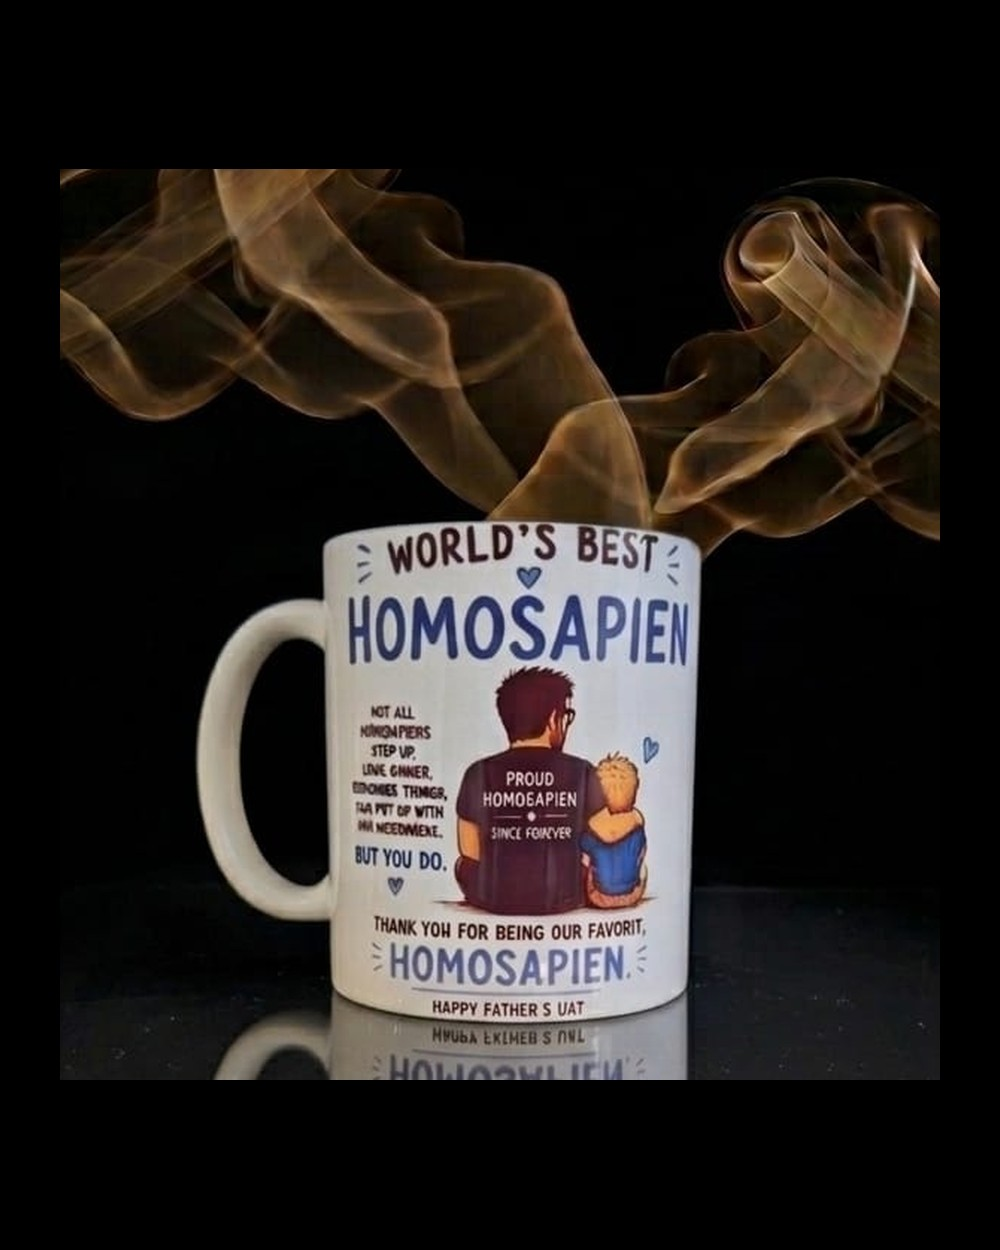
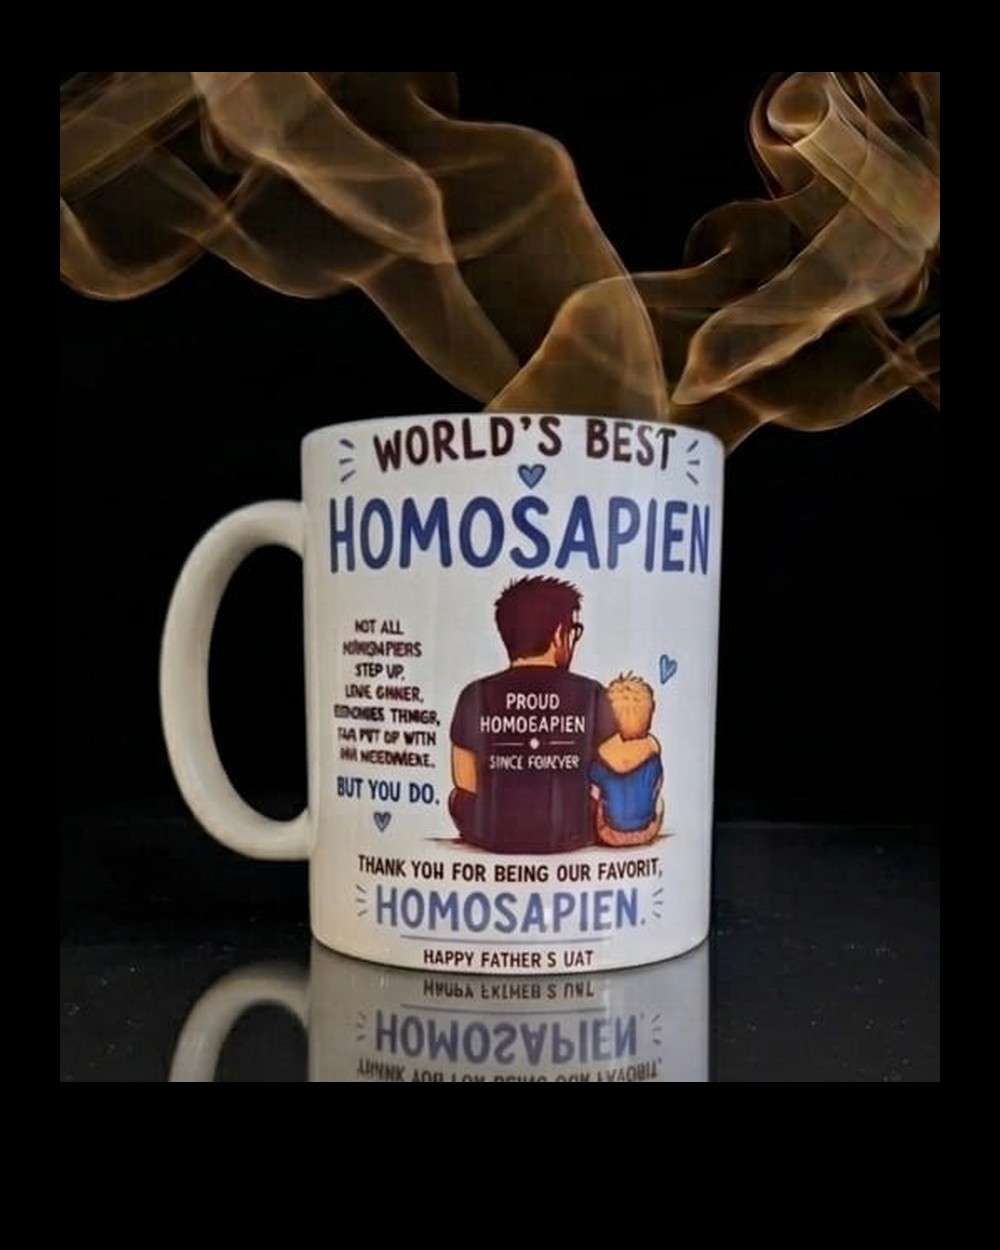
Fix Homosapien bottom clip with manual crop and canvas offset
Use explicit bounds from the WA source so Father's Day text and the
mug reflection stay in frame, with extra padding below on the 4:5 canvas.

diff --git a/scripts/crop-incoming-products.py b/scripts/crop-incoming-products.py
@@ -71,7 +71,7 @@ def crop_runs(image: Image.Image, **options: float | int) -> Image.Image:
     )
 
 
-def normalize(image: Image.Image) -> Image.Image:
+def normalize(image: Image.Image, *, y_offset: int = 0) -> Image.Image:
     width, height = image.size
     pixels = image.load()
     min_x, min_y, max_x, max_y = width, height, 0, 0
@@ -100,7 +100,10 @@ def normalize(image: Image.Image) -> Image.Image:
         (max(1, int(cropped.width * scale)), max(1, int(cropped.height * scale))),
         Image.Resampling.LANCZOS,
     )
-    offset = ((CANVAS[0] - resized.width) // 2, (CANVAS[1] - resized.height) // 2)
+    offset = (
+        (CANVAS[0] - resized.width) // 2,
+        max(0, (CANVAS[1] - resized.height) // 2 - y_offset),
+    )
     canvas.paste(resized, offset)
     return canvas
 
@@ -114,7 +117,8 @@ JOBS = [
     {
         "source": "homosapien-mug-source.jpg",
         "dest": ROOT / "coffee-mugs" / "homosapien-mug.jpg",
-        "crop": lambda image: crop_runs(image, y_max=0.65, min_run=80, x_min=0.28, x_max=0.72, pad=32),
+        "crop": lambda image: image.crop((334, 35, 861, 640)),
+        "normalize": {"y_offset": 48},
     },
     {
         "source": "ac-fitness-bottle-source.jpg",
@@ -131,7 +135,7 @@ def main() -> None:
             raise FileNotFoundError(source_path)
         image = Image.open(source_path).convert("RGB")
         cropped = job["crop"](image)
-        output = normalize(cropped)
+        output = normalize(cropped, **job.get("normalize", {}))
         job["dest"].parent.mkdir(parents=True, exist_ok=True)
         output.save(job["dest"], quality=90, optimize=True)
         print(f"ok  {job['dest'].relative_to(ROOT.parents[1])}  crop {cropped.size}")
